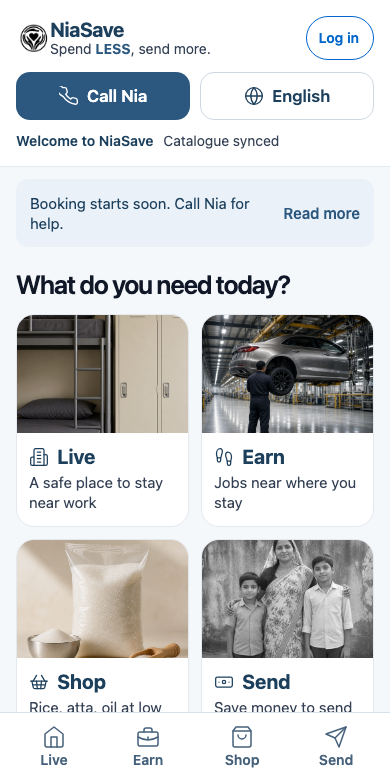
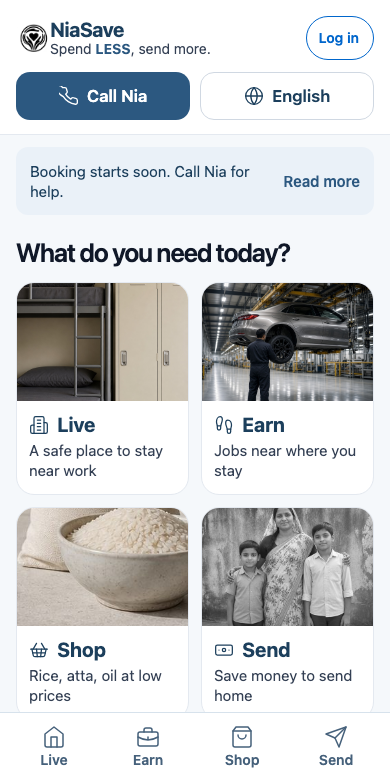
Hide the extra Home lines, prove each control clears the bar, and show rice on the Shop tile.

diff --git a/tests/browser/bar-clearance.spec.js b/tests/browser/bar-clearance.spec.js
@@ -1,4 +1,5 @@
 import {test, expect} from '@playwright/test';
+import {bodyFor} from '../ui-clarity/replies.mjs';
 
 async function prepare(page, lang) {
   await page.addInitScript(language => {
@@ -46,6 +47,40 @@ async function overlaps(page) {
   });
 }
 
+async function reachable(page) {
+  return page.evaluate(() => {
+    const failures = [];
+    const nodes = [...document.querySelectorAll('button, a')];
+    for (const el of nodes) {
+      if (el.closest('[hidden]')) continue;
+      const dialog = el.closest('dialog');
+      if (dialog && !dialog.open) continue;
+      const style = getComputedStyle(el);
+      if (style.display === 'none' || style.visibility === 'hidden' || Number(style.opacity) === 0) continue;
+      if (typeof el.checkVisibility === 'function' && !el.checkVisibility({checkOpacity: true, checkVisibilityCSS: true})) continue;
+      const before = el.getBoundingClientRect();
+      if (before.width < 2 || before.height < 2) continue;
+      const onScreen = before.bottom > 0 && before.right > 0 && before.top < window.innerHeight && before.left < window.innerWidth;
+      if (!onScreen && !el.closest('#content')) continue;
+      el.scrollIntoView({block: 'center', inline: 'nearest', behavior: 'instant'});
+      const rect = el.getBoundingClientRect();
+      const x = rect.left + rect.width / 2;
+      const y = rect.top + rect.height / 2;
+      const name = (el.innerText || el.getAttribute('aria-label') || el.id || 'control').replace(/\s+/g, ' ').trim().slice(0, 80);
+      if (x < 0 || y < 0 || x >= window.innerWidth || y >= window.innerHeight) {
+        failures.push(name + ' centre is outside the viewport');
+        continue;
+      }
+      const hit = document.elementFromPoint(x, y);
+      if (!hit || (hit !== el && !el.contains(hit))) {
+        const hitName = hit ? (hit.innerText || hit.getAttribute('aria-label') || hit.id || hit.tagName).toString().replace(/\s+/g, ' ').trim().slice(0, 40) : 'nothing';
+        failures.push(name + ' is covered by ' + hitName);
+      }
+    }
+    return failures.join('\n');
+  });
+}
+
 for (const width of [360, 390]) {
   for (const lang of ['en', 'hi']) {
     test(`no control sits under the bar at ${width}px in ${lang}`, async ({page}) => {
@@ -55,8 +90,7 @@ for (const width of [360, 390]) {
       await page.goto('/#home');
       await expect(page.locator('#call-nia')).toBeVisible();
       await expect(page.locator('#call-nia')).toContainText(lang === 'hi' ? 'निया को फ़ोन करें' : 'Call Nia');
-      const box = await page.locator('#call-nia').boundingBox();
-      expect(box.height).toBeGreaterThanOrEqual(44);
+      await expect.poll(async () => (await page.locator('#call-nia').boundingBox())?.height ?? 0).toBeGreaterThanOrEqual(44);
       for (const name of ['home', 'live', 'earn', 'shop', 'send']) {
         if (name !== 'home') {
           await page.locator(`#less-nav button[data-action="${name}"]`).click();
@@ -64,6 +98,7 @@ for (const width of [360, 390]) {
         }
         await expect(page.locator('#call-nia')).toBeVisible();
         expect(await overlaps(page), name).toBe('');
+        expect(await reachable(page), name).toBe('');
       }
     });
   }
@@ -75,7 +110,10 @@ test('an empty help number opens Help and the pause line stays short', async ({p
   await page.goto('/#home');
   await expect(page.locator('.pause-note-line')).toHaveText('Booking starts soon. Call Nia for help.');
   await expect(page.locator('.home-dashboard')).not.toContainText('Getting your details');
+  await expect(page.locator('#shell-greeting')).toBeHidden();
+  await expect(page.locator('header.header')).not.toContainText('Welcome to NiaSave');
   await expect(page.locator('#sync-state')).toHaveText('Details did not load.');
+  await expect(page.locator('header.header')).not.toContainText('Catalogue synced');
   await expect(page.locator('#content')).not.toContainText('Getting your details');
   await expect(page.locator('.home-attention-card')).toHaveCount(0);
   await expect(page.locator('#call-nia')).toHaveAttribute('data-action', 'help');
@@ -84,4 +122,28 @@ test('an empty help number opens Help and the pause line stays short', async ({p
   await page.locator('#dialog [data-action="close"]').click();
   await page.locator('#content .pause-note-more summary').click();
   await expect(page.locator('#content .pause-note-full')).toContainText('Browsing is open');
+});
+
+test('a ready Home shows the mockup lines without a welcome or sync line', async ({page}) => {
+  await page.setViewportSize({width: 390, height: 780});
+  await page.addInitScript(() => {
+    localStorage.setItem('nia-language', JSON.stringify('en'));
+  });
+  await page.route('**/*', async route => {
+    const url = route.request().url();
+    if (!url.includes('/api/') && !url.includes('/v1/')) return route.continue();
+    const parsed = new URL(url);
+    await route.fulfill({status: 200, contentType: 'application/json', body: JSON.stringify(bodyFor('empty', parsed.pathname))});
+  });
+  await page.goto('/#home');
+  await expect(page.locator('.home-dashboard h1')).toHaveText('What do you need today?');
+  await expect(page.locator('.pause-note-line')).toHaveText('Booking starts soon. Call Nia for help.');
+  await expect(page.locator('.home-tile-line').nth(2)).toHaveText('Rice, atta, oil at low prices');
+  await expect(page.locator('.home-tile-shop img')).toHaveAttribute('src', /\/assets\/home-rice\.jpg$/);
+  await expect(page.locator('#shell-greeting')).toBeHidden();
+  await expect(page.locator('#sync-state')).toBeHidden();
+  await expect(page.locator('header.header')).not.toContainText('Welcome to NiaSave');
+  await expect(page.locator('header.header')).not.toContainText('Catalogue synced');
+  await expect(page.locator('.home-dashboard')).not.toContainText('Welcome to NiaSave');
+  await expect(page.locator('.home-dashboard')).not.toContainText('Catalogue synced');
 });

diff --git a/commerce.js b/commerce.js
@@ -181,8 +181,12 @@ function renderShell(){
   const queued=unsyncedTapCount(),online=navigator.onLine;
   const state=memberShellState({online,readAsOf:cat?.asOf,readAt:shellReadAt,readFailed:shellReadFailed,pendingCount:queued,sourceOwner:cat?.owner,signedIn:!!account});
   const labels={signin:t('Log in to see what is here'),synced:t('Catalogue synced','सामान की सूची अपडेट है'),checking:t('Getting your details','आपकी जानकारी आ रही है'),stale:t('Checking last update','पिछला अपडेट जाँच रहे हैं'),offline:t('Offline','ऑफ़लाइन'),queued:t('Queued on this phone','इस फोन पर कतार में है'),retry:t('Request needs retry','अनुरोध फिर से भेजना होगा')};
-  $('#shell-greeting').textContent=owner.active?t('Owner view','संचालक दृश्य'):account?t('Hello, Member','नमस्ते, सदस्य'):t('Welcome to NiaSave','नियासेव में स्वागत है');
-  const sync=$('#sync-state');sync.dataset.state=state;const syncWord=shellReadFailed&&state==='checking'?t('Details did not load.'):(labels[state]||t('Details did not load.'));sync.replaceChildren();const syncText=document.createElement('span');syncText.className='sync-word';syncText.textContent=syncWord;sync.append(syncText);
+  const homeQuiet=page==='home'&&!document.body.classList.contains('mesha-lang-open');
+  const greet=$('#shell-greeting');
+  greet.hidden=homeQuiet;
+  greet.textContent=homeQuiet?'':(owner.active?t('Owner view','संचालक दृश्य'):account?t('Hello, Member','नमस्ते, सदस्य'):t('Welcome to NiaSave','नियासेव में स्वागत है'));
+  const sync=$('#sync-state');sync.dataset.state=state;const syncWord=homeQuiet?(shellReadFailed?t('Details did not load.'):''):(shellReadFailed&&state==='checking'?t('Details did not load.'):(labels[state]||t('Details did not load.')));sync.replaceChildren();if(syncWord){const syncText=document.createElement('span');syncText.className='sync-word';syncText.textContent=syncWord;sync.append(syncText);}sync.hidden=!syncWord;
+  const heading=greet.closest('.shell-heading');if(heading)heading.hidden=homeQuiet&&!syncWord;
   const banner=$('#offline-banner');banner.hidden=online;
   banner.textContent=online?'':(cat?.asOf?t('Offline. Last loaded information may be out of date.','ऑफ़लाइन। पिछली देखी जानकारी पुरानी हो सकती है।'):t('Offline. Connect to load information.','ऑफ़लाइन। जानकारी देखने के लिए इंटरनेट से जुड़ें।'))+(queued?' '+t('A request is queued on this phone. Retry when connected.','एक अनुरोध इस फोन पर कतार में है। इंटरनेट आने पर फिर से भेजें।'):'');
 }

diff --git a/commerce-home.js b/commerce-home.js
@@ -69,7 +69,7 @@ export function homeDashboardMarkup(model,{t,esc,icon}){
   }
   const attention=needs.length?`<section aria-labelledby="home-attention-title"><h2 id="home-attention-title">${esc(t('Needs attention'))}</h2><div class="home-attention-grid">${needs.join('')}</div></section>`:'';
   const phone=model.callPhone!=null?model.callPhone:NIA_HELP_PHONE;
-  const tiles=[['live',t('Live'),t('A safe place to stay near work'),'/assets/studio-bunk-lockers.jpg',''],['earn',t('Earn'),t('Jobs near where you stay'),'/assets/earn.jpg',''],['shop',t('Shop'),t('Rice, atta, oil at low prices'),'/assets/save-sugar-v3.png',priceChip(model.shopPrice,t,esc)],['send',t('Send'),t('Save money to send home'),'/assets/send-purpose-family.jpg','']];
+  const tiles=[['live',t('Live'),t('A safe place to stay near work'),'/assets/studio-bunk-lockers.jpg',''],['earn',t('Earn'),t('Jobs near where you stay'),'/assets/earn.jpg',''],['shop',t('Shop'),t('Rice, atta, oil at low prices'),'/assets/home-rice.jpg',priceChip(model.shopPrice,t,esc)],['send',t('Send'),t('Save money to send home'),'/assets/send-purpose-family.jpg','']];
   const talk=callNiaMarkup({t,esc,icon,phone,label:t('Call'),className:'home-call'});
   return `<section class="home-dashboard" aria-label="${esc(t('Home dashboard'))}"><header class="home-title"><h1>${esc(t('What do you need today?'))}</h1></header>${attention}<div class="home-tiles">${tiles.map(([action,name,line,src,extra])=>`<button type="button" class="home-tile home-tile-${action}" data-action="${action}"><img src="${esc(src)}" alt="" width="640" height="360"><span class="home-tile-copy"><span class="home-tile-name">${icon(action)}<strong>${esc(name)}</strong></span><span class="home-tile-line">${esc(line)}</span>${extra}</span></button>`).join('')}</div><section class="home-talk"><span class="home-talk-mark" aria-hidden="true">${icon('phone')}</span><span class="home-talk-copy"><strong>${esc(t('Talk to us'))}</strong><span>${esc(t('The Nia team will help you.'))}</span></span>${talk}</section></section>`;
 }

diff --git a/commerce.css b/commerce.css
@@ -528,6 +528,12 @@ body.mesha-dark header.header .shell-heading{
   justify-content:flex-start;
   gap:4px 10px;
 }
+#shell-greeting[hidden],
+#sync-state[hidden],
+.shell-heading[hidden]{display:none}
+body.mesha-dark header.header:has(.shell-heading[hidden]){
+  grid-template-areas:"brand login" "actions actions";
+}
 body.mesha-dark #shell-greeting{font-size:14px}
 body.mesha-dark #sync-state{white-space:normal;font-size:14px;color:#344054}
 body.mesha-dark #sync-state::before{content:none;width:0;height:0;background:transparent}
